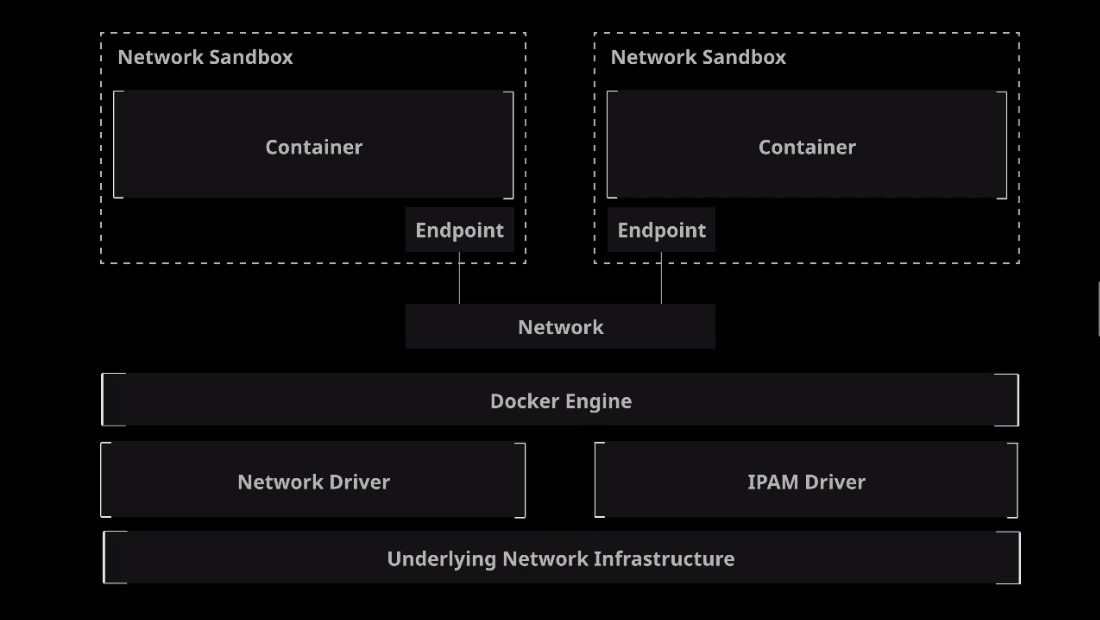
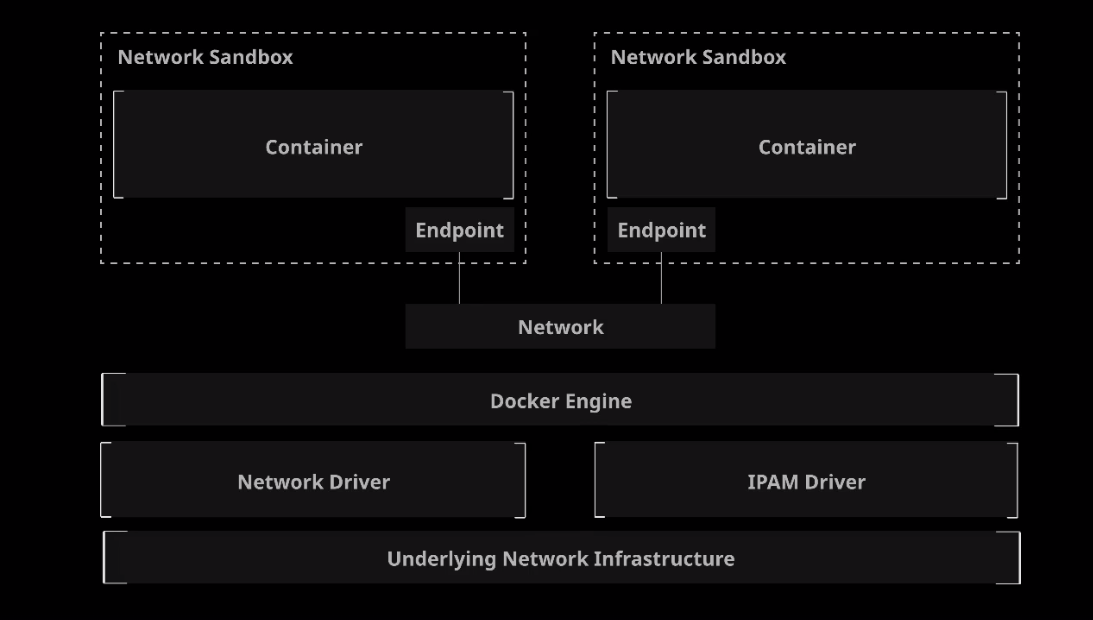
dev

diff --git a/README.md b/README.md
@@ -667,6 +667,8 @@ docker image prune -a
 
 Docker uses an architecture called 'Container Networking Model (CNM)' to manage networking for Docker containers. The CNM utilizes the following concepts:
 
+<img src="https://github.com/GabrielFlores8227/Docker-Certified-Associate/blob/main/.assets/ikkltkeemeup.png">
+
 - **Sandbox**: An isolated unit containing all networking components associated with a single container. Usually a Linux Network namespace.
 
 - **Endpoint**: Connects a sandbox to a network. Each sandbox/container can have any number of endpoints, but has exactly one endpoint for each network it is connected to.
